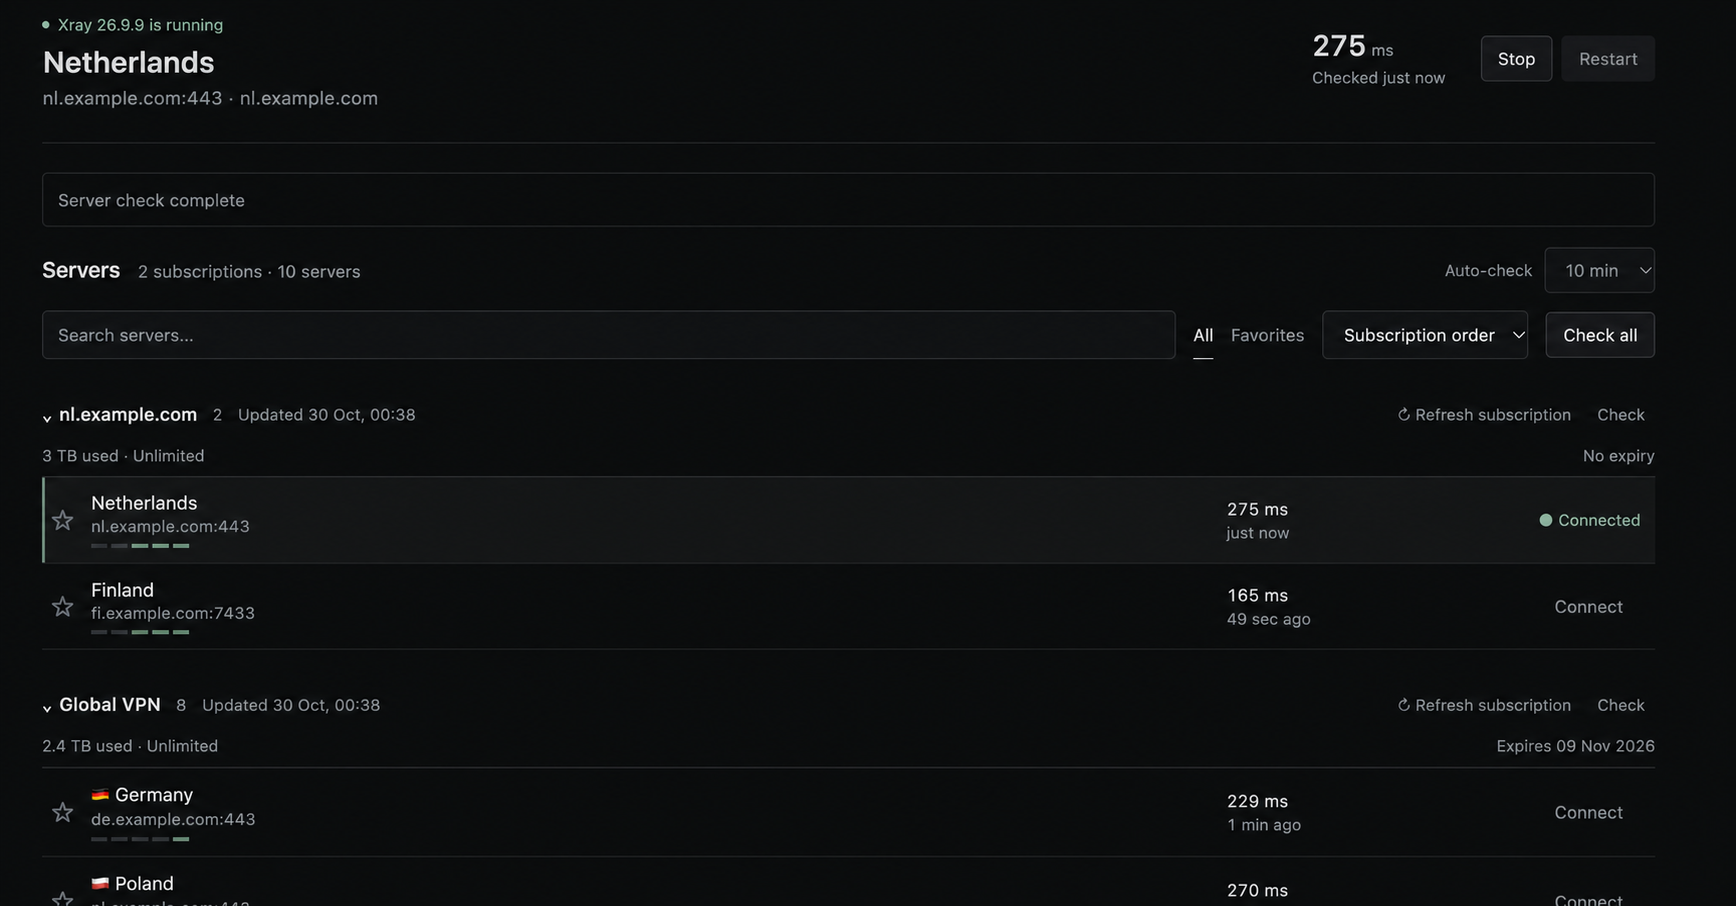
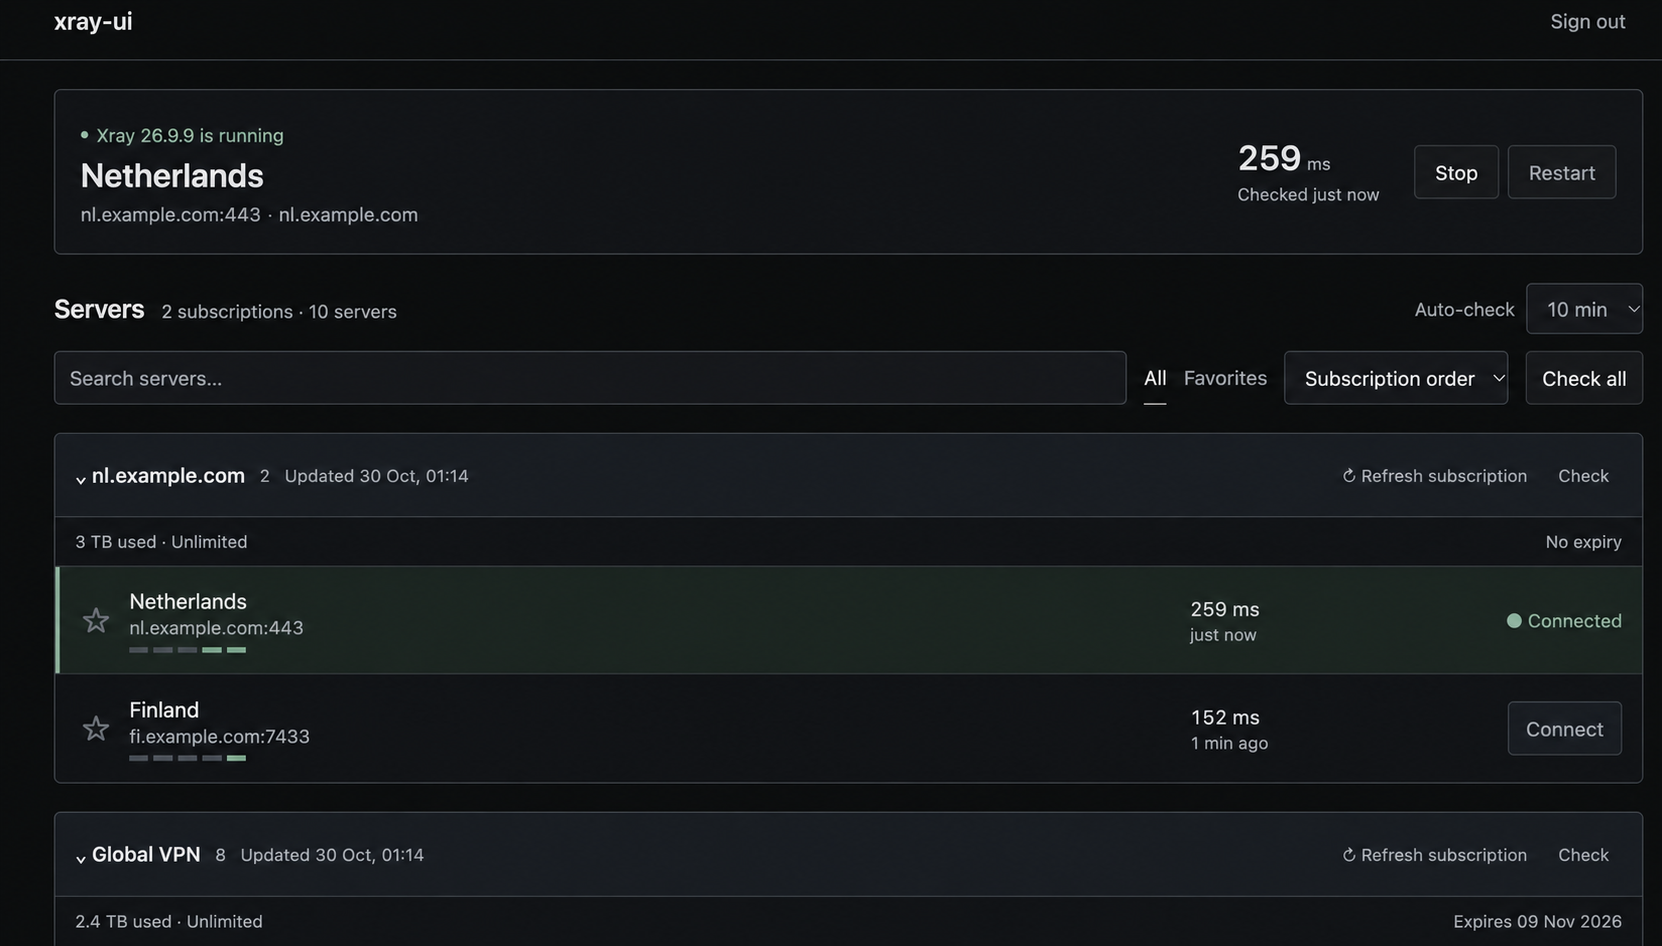
Refresh anonymized panel screenshot for the clearer theme

diff --git a/README.md b/README.md
@@ -12,7 +12,7 @@ The ARMv5 build is intended for RouterOS devices with EN7562CT CPUs, including h
 
 The dark panel includes favorites, latency sorting, automatic HTTPS checks and the last five check results per server. Subscription traffic, quota and expiry are shown when reported by the provider. Failed checks retain the last successful latency; subscription errors stay beside the affected source.
 
-![xray-ui panel](docs/panel.png)
+![xray-ui panel](docs/panel.png?v=ui-13)
 
 ## Run on MikroTik
 
